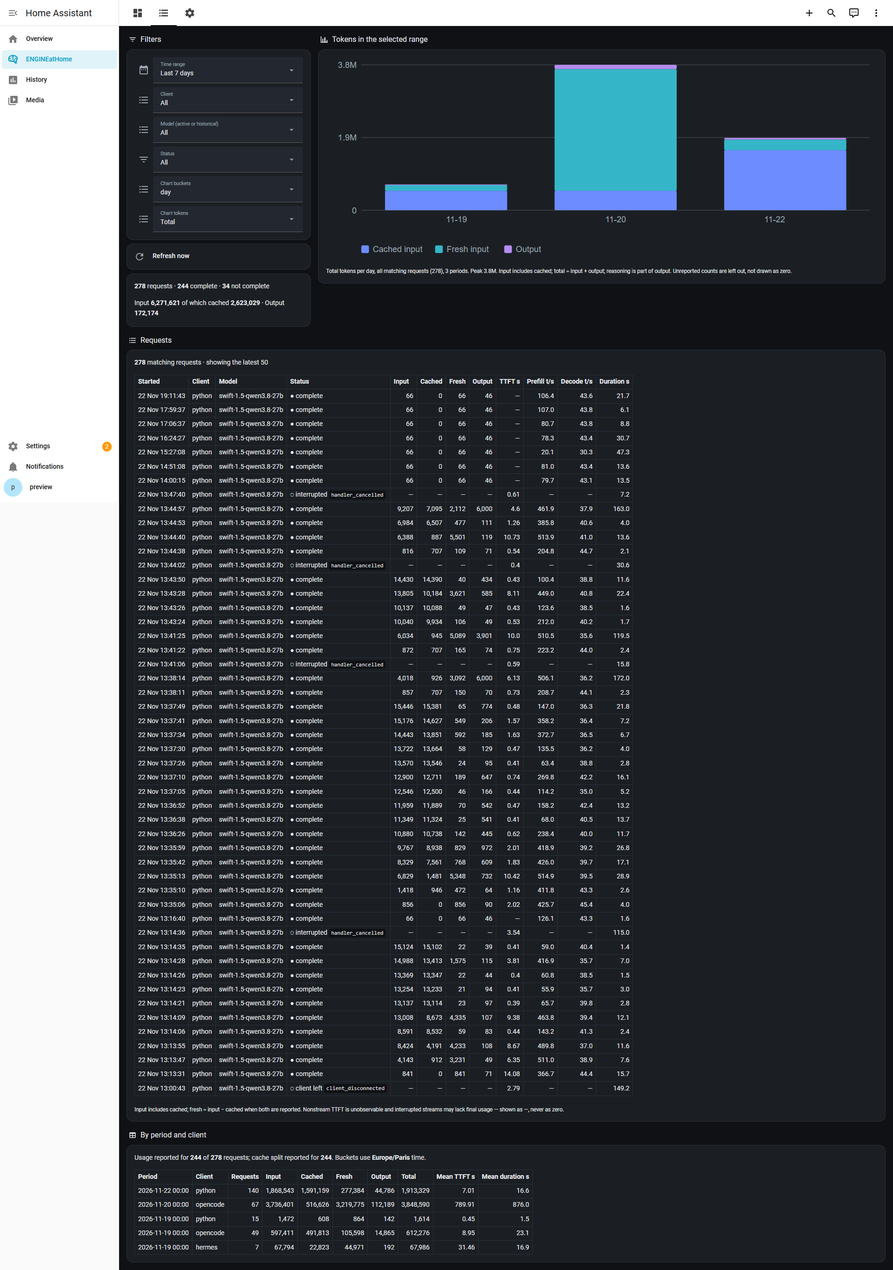
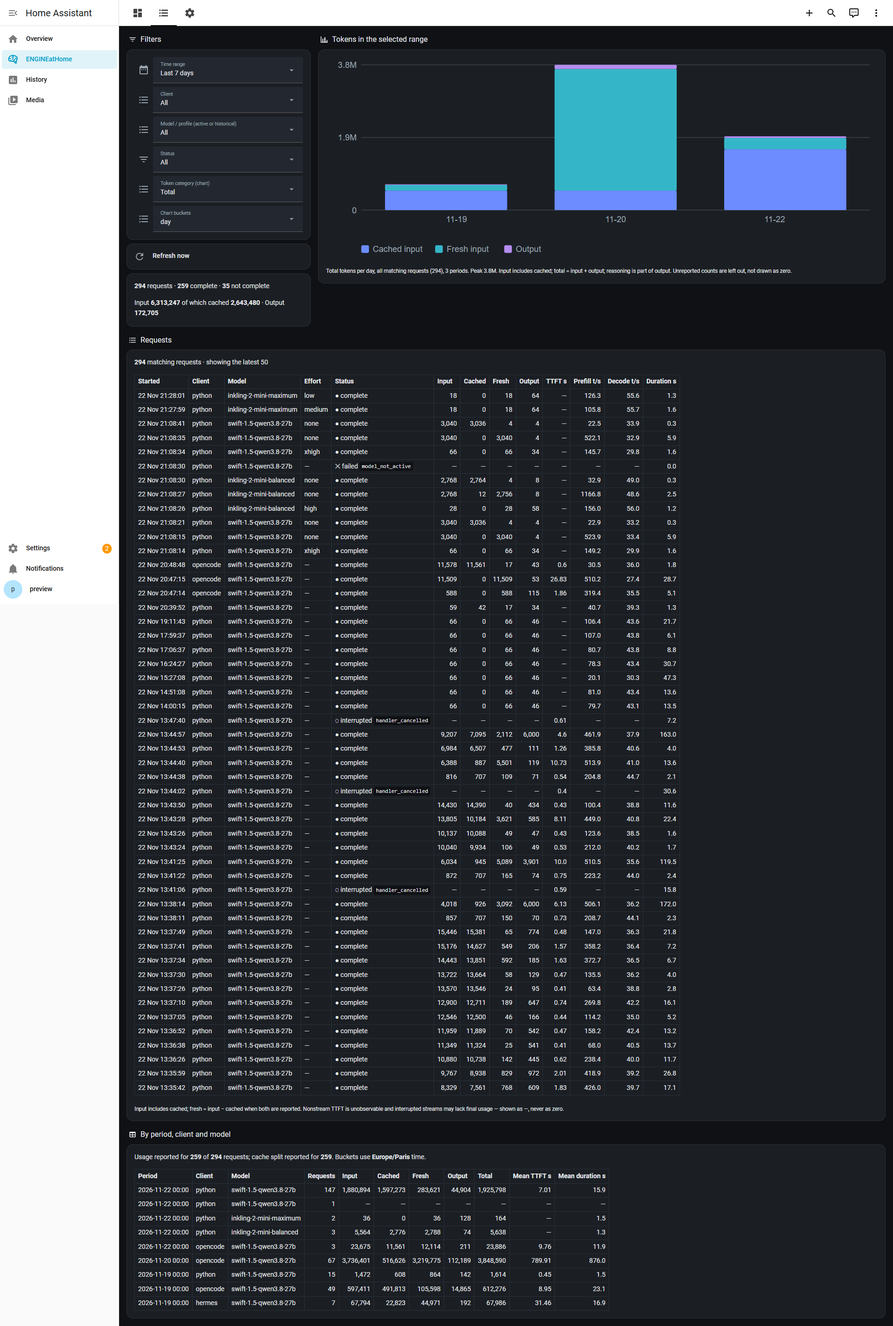
Document the multi-model control center and dashboard
Validated profile configurations and provenance, the switching protocol, API and
error codes, verified thinking-effort capabilities and forwarding, OpenCode request
format, test and live validation results, rollback, limitations; real screenshots.

diff --git a/docs/serving-dashboard.md b/docs/serving-dashboard.md
@@ -1,62 +1,65 @@
 # ENGINEatHome Serving dashboard
 
-Redesigned 2026-11-22. A Home Assistant dashboard for the homelab inference gateway: dark charcoal surfaces, a responsive 12-column Sections layout, three views. It only changes Home Assistant configuration (package, dashboard, theme). The gateway, lifecycle logic, inference arguments, credentials and API are untouched.
+A Home Assistant console for the homelab inference gateway: dark charcoal surfaces, a responsive 12-column Sections layout, three views. It chooses models and thinking effort, shows live GPU and inference statistics, and never holds a credential. The backend behaviour it controls is described in [multi-model-control-center.md](multi-model-control-center.md).
 
-Dashboard URL: `http://homelab.tail5bda2d.ts.net:8123/engine-at-home/overview` (`/requests`, `/settings`). The old `/serving` path is replaced by `/overview`.
+Dashboard URL: `http://homelab.tail5bda2d.ts.net:8123/engine-at-home/overview` (`/requests`, `/settings`).
 
-![Overview, desktop](assets/serving-dashboard/overview-desktop.png)
+![Overview, Swift running](assets/serving-dashboard/overview-desktop.png)
 
 ## Views
 
-**Overview**: a status header (gateway health, active model, active requests, GPU status), a **Model control** panel, key metrics, and separate charts:
+**Overview**
 
-- Token usage, last 24 h: cached input, fresh input, output (stacked; one tokens axis).
-- Throughput: prefill and decode tok/s per completed request, on their own axes.
-- GPU temperature (°C), power (W), VRAM used (GiB) and utilization (%), each in its own native history chart. Units are never mixed.
-- The five most recent requests with a link to the explorer.
+- Status header: gateway health, the model **actually running**, active requests, GPU status (green / amber / red).
+- **Model control.** *Running model* (blue) and *Runtime* state are separate from the *Target model* dropdown. Choosing a target only records it. The panel then compares the target with what is running (context, microbatch, KV precision, prefix cache, expected VRAM, default thinking) and says whether applying stops the running model and clears its prefix cache. **Apply model** appears only when the target differs, nothing is running or leased, and asks for confirmation. Load (when unloaded or failed), Restart and Unload (when ready) are compact and confirmed. Switching, failed loads and a failed last switch have their own states, and a banner explains why a switch or unload is refused.
+- **Thinking effort.** A separate selector offering only the loaded model's levels, the effective default and its source, whether per-request override is supported, and a note that higher effort can raise latency and tokens. Changing it never reloads the model.
+- **Connect.** API base URL, the served model ID, its context and the thinking default (code blocks with a copy button; no key).
+- KPI tiles (VRAM used/free, GPU utilization/power/temperature, active requests, last prefill/decode/TTFT/latency, cache efficiency, tokens today and in the selected range), then separate charts: token usage (cached, fresh, output), prefill and decode throughput (own axes), and GPU temperature, power, VRAM and utilization as individual history graphs. The five latest requests, each attributed to the model that served it, link to the explorer.
 
-Model control shows the **actual** runtime state and the model actually in memory. Load is offered only when the model is unloaded or failed; Restart and Unload only when ready, each behind a confirmation that states the cost (the prefix cache is discarded, so the next request re-reads its whole prompt). A banner appears while the gateway refuses Unload/Restart because requests or session leases are active. Nothing here interrupts a request or bypasses a lease; the gateway still enforces that (HTTP 409).
+**Requests.** Filters for time range, client, model/profile (active or historical, discovered from usage), status, token category and chart buckets; a stacked token chart; the latest 50 matching requests (model, forwarded thinking effort, status/error, input, cached, fresh, output, TTFT, prefill, decode, duration); a per-period/client/model table. Metadata only.
 
-**Requests**: filters for time range, client, model (active or historical), status, and chart bucket/series; a stacked token chart for the selection; a table of the latest 50 matching requests (input, cached, fresh, output, TTFT, prefill, decode, duration, status/error); and a per-period/client table. Metadata only.
+**Settings.** Default launch profile, automatic unload and idle timeout, all models with IDs, context, KV, microbatch and VRAM, a verbatim OpenCode snippet for the served model, each model's thinking controls, the selected model's launch settings (from the gateway; no paths), diagnostics (uptimes, leases, last load, GPU sample age, last switch, last error) and the lifecycle protections.
 
-**Settings**: automatic unload switch and idle timeout (15 min – 24 h, applied through the existing `PATCH /admin/settings`), API URL and model ID, the real launch settings, diagnostics (uptimes, leases, last load time, GPU sample age, last error) and the lifecycle protections, including the prefix-cache warning.
+| Switch pending | Inkling Maximum running |
+|---|---|
+| ![](assets/serving-dashboard/overview-pending.png) | ![](assets/serving-dashboard/overview-inkling.png) |
 
-| Overview, phone | Requests | Settings |
+| Phone | Requests | Settings |
 |---|---|---|
 | ![](assets/serving-dashboard/overview-phone.png) | ![](assets/serving-dashboard/requests-desktop.png) | ![](assets/serving-dashboard/settings-desktop.png) |
 
-Screenshots are real renders of this configuration in an isolated Home Assistant instance (2026.10.2) reading the live gateway's metadata.
+Screenshots are real renders of this configuration (Home Assistant 2026.10.2, headless Edge) reading the live gateway; the switch screenshots come from clicking through the real UI.
 
 ## Design decisions and limits
 
-- **Native only.** The deployment has no HACS, no custom cards and no Lovelace resources, so ApexCharts and Mushroom are not used. The dashboard uses Sections, Tile, Heading, Gauge, Conditional, Entities, History-graph and Markdown cards plus a theme (`themes/engineathome.yaml`, applied per view). Token and throughput charts are inline SVG rendered by HA templates from real request rows. They are not interactive: no tooltips or zoom.
-- **Theme scope.** The theme styles the dashboard content. HA's own top bar and sidebar follow your HA theme; select *ENGINEatHome* in your profile for a fully dark shell.
-- **No profile selector.** The gateway serves exactly one model (`swift-1.5-qwen3.8-27b`, one `argv`, one port). A Swift / Inkling profile dropdown would be non-functional, so it is not shown. **Backend dependency:** model profiles need gateway support for several named launch profiles, an explicit select-then-apply control endpoint (selecting must never load), per-profile preflight (VRAM, power limit, checksum), and a recorded active-profile field in `/admin/status`. The dashboard needs only a profile list and an active-profile sensor once that exists. Until then the interface states that Unload, Restart (and any future model change) discards the prefix cache.
-- **Status filter** is applied in the dashboard over the newest 500 rows returned by the existing analytics API; no gateway change.
-- **Unavailable is not zero.** Missing measurements (no decode rate, no cache split, nonstream TTFT) show `—`/Unavailable. Chart series ignore unreported counts, and "input, split unreported" is its own series.
-- **Request table width.** Wide tables clip on phones; the Overview table is a compact eight-column version.
-- Overview charts use fixed 24-hour windows; Requests charts follow the filters. GPU history graphs use HA's recorder (default retention), so they are empty right after a fresh install.
+- **Native only.** No HACS, custom card or Lovelace resource is installed, so ApexCharts and Mushroom are not used. The dashboard uses Sections, Tile, Heading, Conditional, Entities, History-graph and Markdown cards and one theme (`themes/engineathome.yaml`, per view). Token and throughput charts are inline SVG rendered by Home Assistant templates from real request rows: not interactive (no tooltips or zoom).
+- **Everything about profiles comes from the gateway's registry.** Dropdown choices, model IDs, levels and launch settings are generated from the configured profiles and read live from `/admin/status`; nothing is hard-coded.
+- **Selection is a request, not an action.** No automation can apply a profile; only the confirmed Apply tile can. A gateway refusal (409) leaves the selection and the running model untouched, and the sync automations show the gateway's truth.
+- **Unavailable is not zero.** Missing measurements show `—` or Unavailable. Chart series ignore unreported counts; "input, split unreported" is its own series.
+- **Theme scope.** The theme styles the dashboard content. Home Assistant's own top bar and sidebar follow your theme; select *ENGINEatHome* in your profile for a fully dark shell.
+- **Tables** clip on phones; the Overview table is the compact one.
+- Overview charts use a fixed 24-hour window; Requests charts follow the filters. GPU graphs use the recorder, so they are empty right after a fresh install.
+- Thinking changes are requests to the gateway: after a failure the selector reverts to the gateway's value within two minutes.
 
 ## Files
 
 | File | Role |
 |---|---|
-| `serving/ha_dashboard.py` | dashboard and theme generator, chart/table templates |
-| `serving/ha_files.py` | package generator (REST sensors, derived template sensors, helpers, commands), runtime facts from real `argv` |
-| `serving/install_home_assistant.py` | backs up, installs package/dashboard/theme, validates with HA `check_config`, rolls back on failure |
-| `serving/configure.py` | passes the real launch arguments to the generator |
-| `serving/test_ha_dashboard.py` | offline checks: YAML, every entity defined, native cards only, secrets, templates and SVG with null/empty data |
-| `serving/validate_ha_history.py` | isolated HA instance against the real metadata API: filters, every status and token view, invalid ranges |
+| `serving/ha_dashboard.py` | dashboard, theme, chart and table templates |
+| `serving/ha_files.py` | package generator: REST/derived sensors, helpers, commands, automations; profile data from `profiles.py` |
+| `serving/install_home_assistant.py` | backup, install package/dashboard/theme, `check_config`, rollback on failure |
+| `serving/test_ha_dashboard.py` | offline checks: YAML, every entity defined, native cards only, secrets, profile-derived content, templates and SVG with null/empty/unavailable data |
+| `serving/validate_ha_history.py` | isolated HA instance against the real API with control services stubbed |
 
 Regenerate and install (on the homelab; no key is printed):
 
 ```bash
 cd ~/llm/serving
-~/llm/serving-venv/bin/python -c "import json,pathlib;from ha_files import generate;c=json.loads(pathlib.Path('config.json').read_text());k=json.loads(pathlib.Path('credentials.json').read_text());generate(pathlib.Path('ha-generated'),c['api_base_url'].rsplit('/v1',1)[0],c['model_id'],k['home-assistant'],c['argv'])"
-sudo ~/llm/serving-venv/bin/python install_home_assistant.py   # backup, check_config, rollback on failure
-sudo docker restart homeassistant                             # package changes need a restart
+~/llm/serving-venv/bin/python -c "import json,pathlib;from ha_files import generate;c=json.loads(pathlib.Path('config.json').read_text());k=json.loads(pathlib.Path('credentials.json').read_text());generate(pathlib.Path('ha-generated'),c['api_base_url'].rsplit('/v1',1)[0],k['home-assistant'],c)"
+sudo python3 install_home_assistant.py      # backup, check_config, rollback on failure
+sudo docker restart homeassistant           # package changes need a restart
 ```
 
-Rollback: copy the files from `engineathome/backup-<stamp>/` back over `engineathome/` (and remove `themes/engineathome.yaml`), then restart HA.
+Rollback: copy the files from `engineathome/backup-<stamp>/` back over `engineathome/`, remove `themes/engineathome.yaml`, restart Home Assistant.
 
-Offline tests: `python serving/test_ha_dashboard.py` (needs `pyyaml` and `jinja2`). Against real HA: copy a generated candidate into the HA container and run `validate_ha_history.py <dir>`; it uses a temporary HA state and only reads metadata.
+Offline tests: `python -m unittest test_serving test_ha_dashboard` in `serving/` (needs `aiohttp`, `pyyaml`, `jinja2`). Against real Home Assistant: copy a generated candidate into the container and run `validate_ha_history.py <dir>`.

diff --git a/docs/multi-model-control-center.md b/docs/multi-model-control-center.md
@@ -1,0 +1,102 @@
+# Multi-model inference control center
+
+Deployed 2026-11-22. One RTX 2080 Ti (22 GB, 175 W) serves **one model at a time** through the existing private gateway; Swift stays the default, and Inkling 2 Mini is available in two validated configurations. Models are selected, applied and tuned from the Home Assistant dashboard ([serving-dashboard.md](serving-dashboard.md)). No CUDA kernel, benchmark configuration or Swift inference setting changed.
+
+## Profiles (verified against the homelab, not assumed)
+
+| | Swift Production | Inkling Balanced | Inkling Maximum |
+|---|---|---|---|
+| Model ID | `swift-1.5-qwen3.8-27b` | `inkling-2-mini-balanced` | `inkling-2-mini-maximum` |
+| Model | Qwen3.8-27B Swift 1.5 GSQ-RCO IQ3_S (MTP) | Inkling 2 Mini UD-IQ3_XXS (mainline GGUF) | same file |
+| Runtime | stock llama.cpp build 12519 (unchanged) | llama.cpp fork `relpos-gpu`, validated build `bin-rp2` | same binary |
+| Context (configured) | 262,144 | 204,800 | 262,144 |
+| KV cache | Q4_0 | Q8_0 | Q8_0 |
+| Microbatch | 128 (batch 512) | 512 | 256 |
+| Other | MTP3, FA, 99 GPU layers, `--cache-ram 0` | FA, `-ngl 99`, one sequence, `--jinja`, prefix cache on | same |
+| Loaded VRAM | ~19.0 GiB expected (observed 19,614 MiB) | ~20.1 GiB (observed 20,558 MiB) | ~19.4 GiB (observed 19,840 MiB) |
+| Thinking | `none, low, medium, xhigh`; default `xhigh` | `none, minimal, low, medium, high, xhigh`; default `high` | same as Balanced |
+
+- Inkling launch lines are the qualified commands from the long-context report (`-ngl 99 -fa on -ctk q8_0 -ctv q8_0 -c <ctx> -ub <ub> -np 1 --jinja --no-warmup`) plus only what the gateway needs: loopback host/port, alias, `--no-webui`, `--log-disable`. Context 204,800 uses ubatch 512 (qualified at 127,671 and 185,099 actual input tokens). Context 262,144 uses ubatch 256 (qualified with **242,134** actual input tokens, 246.7K occupied).
+- **262,144 is configured capacity, not a demonstrated maximum input.** Nothing above 246.7K occupancy was tested. ubatch 512 at 262,144 fails to allocate (7.40 GiB compute buffer) and is deliberately not offered; it is used only as the failure-injection profile in staging tests.
+- Runtime provenance: `serving/add_profiles.py` pins the research build into `~/llm/runtimes/inkling-7d3e5b1-bin-rp2/` (9 files, SHA256 recorded in its `MANIFEST.json`) and hard-links the GGUF next to the Swift model (SHA256 `fd9ccedae17c…1657`, verified). The binary reports commit `e4a7ea6` in `--version`: it was built (16:43) before 7d3e5b1 was committed (16:47) from the same tree, and the research reports name `bin-rp2` as the 7d3e5b1 baseline. Identity is therefore pinned by hash, not by the embedded string, and validated behaviourally (loads, answers, matches the documented VRAM). It was not rebuilt.
+- GPU guards are per profile: free VRAM >= measured peak + 512 MiB, per-process residency floor (weights + KV), 175 W power limit, no other CUDA process, model file unchanged, backend port free.
+
+## Switching
+
+Vocabulary: **selected** (a UI choice, persisted, never touches the runtime), **applied** (what the gateway serves and what an on-demand load starts), **active** (the process on the GPU, none while unloaded), **default** (applied after a clean gateway start; Swift).
+
+Apply sequence (`POST /admin/profile/apply`, all under the existing lifecycle lock, run detached from the HTTP request so a disconnect cannot leave a half-finished switch):
+1. Refuse (HTTP 409, nothing touched) if requests are active, a session lease is held, a load is running or the native slot is busy.
+2. Static preflight of the target (model file, executable) before anything is unloaded.
+3. Stop the owned process, wait until the GPU really has the room the target needs.
+4. Load with the per-profile guards, then send a **real tiny inference request** to the new runtime. Success is reported only after that answer.
+5. On any failure: clean up, then restore the previous profile, then the configured default (Swift); the outcome (`last_switch`: ok, error, restored) is exposed and shown in the dashboard.
+
+Measured on the homelab (warm page cache; cold-disk loads were not measured): Swift 3.4-3.9 s, Balanced 4.2-4.3 s, Maximum 4.3 s, apply from the dashboard 4.8 s end to end (phases `unloading, loading, verifying_inference` observed in `/admin/status`). One `llama-server` process and 19,614-20,558 MiB VRAM after every switch.
+
+**The prefix cache does not survive a switch** (or Unload/Restart): after Swift -> Balanced -> Swift the first request reported `cached_tokens 0` and the repeat 3,036 of 3,040. The UI says so before Apply.
+
+### API (control scope; inference keys cannot use these)
+
+| Route | Purpose |
+|---|---|
+| `GET /admin/profiles` | all profiles: model ID, context, KV, microbatch, VRAM, thinking levels, launch settings (no paths/checksums) |
+| `GET /admin/profile` | selected / active / applied / default, state, switch phase, last switch |
+| `POST /admin/profile/select {profile}` | record the target; **never switches** |
+| `POST /admin/profile/apply [{profile}]` | apply the selected (or named) profile as above |
+| `POST /admin/load`, `/unload`, `/restart` | unchanged; Load starts the applied profile |
+| `PATCH /admin/settings` | existing keys plus `default_profile` and `reasoning_effort` (+ optional `profile`) |
+| `GET /admin/status` | existing `model.*` keys kept; adds `profile`, `profiles`, `reasoning`, `model.active_model_id` |
+
+Gateway status distinguishes gateway health, selected/active/applied profile, runtime state (`unloaded, loading, ready, switching, unloading, failed`), requests, leases, errors, capacity and the model configuration.
+
+### Which model answers a request
+
+A request names exactly one model. Unknown ID: 400 `unknown_model`. A known ID that is **not** the served model: 409 `model_not_active` with the served model and how to apply the other one; it is never answered by another model and never triggers a switch. No `model`: the applied profile. `/v1/models` lists the served model (`loaded`, `context`, `profile`). Existing clients, keys, leases, auto-unload, on-demand load (of the *applied* profile, so an idle-unloaded Inkling reloads as Inkling) and Tailscale binding are unchanged.
+
+### Usage attribution
+
+The ledger gained `profile` and `effort` columns (nullable, additive). Historical rows were attributed to `swift` on first start (282 of 282). Every served request is tagged with the model/profile that served it and the effort forwarded; rejected requests keep the model they asked for and no profile. Still metadata only.
+
+## Thinking effort
+
+Read from the models' own chat templates (GGUF metadata) on the homelab:
+
+- **Inkling** (`inkling2_loop`): template variable `reasoning_effort`, a name (`none 0, minimal 0.1, low 0.2, medium 0.7, high 0.9, xhigh 0.99, max 0.99`) or a number 0-0.99; default 0.9 (= high). It renders `Thinking effort level: <n>` as a system message. `max` and `xhigh` are identical, so only `xhigh` is offered (`max` is accepted as an alias).
+- **Swift** (`qwen35`): `enable_thinking` (bool) and `reasoning_effort` in `xhigh` (default), `medium`, `low`. `none` is offered as `enable_thinking=false`. Swift's `medium` renders **no instruction text** (a template quirk: it equals the neutral prompt); `low` and `xhigh` add distinct instructions.
+
+Forwarding: the gateway resolves the effort per request (template kwargs, then the top-level OpenAI `reasoning_effort`, then the dashboard default for the served profile, then the model default; same precedence as before), validates it against that model's list (400 `unsupported_reasoning_effort` with the supported list; nothing reaches the model), and sets `chat_template_kwargs.reasoning_effort` (or `enable_thinking=false`). The resolved value is returned as `X-Reasoning-Effort` and recorded. A request's value never changes the stored default or another client's requests. Changing the default (dashboard or `PATCH /admin/settings`) needs no reload. Reasoning content and tool calls pass through untouched; Swift's sampling and `enable_thinking`/`preserve_thinking` defaults are unchanged (Inkling gets none).
+
+Verified on the real runtimes (staging gateway, then production):
+- **Rendered template** (`/apply-template` with the forwarded kwargs): every Inkling level renders its exact number (0, 0.1, 0.2, 0.7, 0.9, 0.99; `max` -> 0.99; `0.5` -> 0.5; default 0.9); Swift renders `low` / `xhigh` instructions, nothing for `medium`, and an empty think block for `none`.
+- **Through the gateway**: changing the level changes the early prompt line, so the prefix cache misses (high -> low: `cached 0`; repeat: 2,764 of 2,768). Swift `low` and `xhigh` differ in prompt tokens (54 vs 66).
+- **Real requests** succeed at every advertised level on both models.
+- **Not claimed**: that a level changes how long the model actually thinks. A moderately hard question gave non-monotonic token counts (single samples, default sampling). Requested effort is not a measurement of internal effort. For Inkling `none` is effort 0, not "thinking disabled": a short reasoning may still be produced.
+
+OpenCode 1.18.16 request format, captured from the real client: with a plain model entry it sends no `reasoning_effort` on agent requests (so the dashboard default applies) but sends `low` on its own title-generation requests (supported by both profiles); `options.reasoningEffort` pins a level on every request; `options.chat_template_kwargs` is passed through. The dashboard's snippet follows this.
+
+## Validation summary
+
+| Layer | Result |
+|---|---|
+| Offline tests (`serving/test_serving.py`, `test_ha_dashboard.py`) | 44 pass: registry validation; selection never switches; apply; invalid profiles; active-request and lease protection; concurrent lifecycle operations; model-ID routing; auto-unload and on-demand reload of the applied profile; failure recovery (previous, then Swift, then nothing); usage attribution and legacy migration; reasoning defaults, overrides, isolation and rejection; status consistency; dashboard entities, cards and charts |
+| Live, staging gateway (own port/DB, real GPU) | Swift -> Balanced -> Maximum -> Swift; every reasoning level on both models; apply/unload/restart refused during a running request (request completed untouched); apply refused with a lease; **real OOM failure** (ubatch 512 at 262,144, runtime exits 1): cleaned up, Swift restored, Swift answered, one process, VRAM back |
+| Live, production gateway | Swift -> Balanced -> Swift smoke; the same through the Home Assistant UI (select, confirm dialog, switch, thinking default, per-request override, switch back) |
+| Home Assistant 2026.10.2 | `check_config`; `validate_ha_history.py` in an isolated instance against the real API with control services stubbed (selection, reasoning options follow the loaded model, one apply path, all cards and filters) |
+
+Tools: `serving/validate_profiles_live.py` (`--full --oom-profile`), `serving/validate_reasoning_live.py`, `serving/validate_ha_history.py`. They run on the homelab with short requests only; no long-context benchmark was run.
+
+## Operation and rollback
+
+Add or refresh profiles: `~/llm/serving-venv/bin/python add_profiles.py` (idempotent, backs up `config.json`, verifies hashes). Regenerate the Home Assistant package: see [serving-dashboard.md](serving-dashboard.md). Gateway change: `sudo systemctl restart engineathome-api.service` (drains).
+
+Rollback: restore `gateway.py`, `lifecycle.py`, `store.py` and `config.json` from `~/llm/serving/backups/multi-model-<stamp>/` (the previous HA files are in `ha-installed/` of the earlier `dashboard-redesign-*` backup and in Home Assistant's `engineathome/backup-*`), restart the gateway and Home Assistant. The ledger change is additive; older code ignores the new columns.
+
+## Limitations
+
+- Switch times are warm-cache; a cold disk read of a 11-12 GB model will take longer.
+- 262,144-token Maximum is qualified only to 242K actual input; a cold 242K prefill takes ~9 minutes.
+- Only one lifecycle operation and one model at a time; the first request after any switch re-reads its whole prompt.
+- Effort levels are forwarded as requested; their effect on behaviour was not shown to be monotonic.
+- OpenCode's variant selector can send levels a model lacks (e.g. `high` to Swift); the gateway answers 400 with the supported list instead of guessing.
+- The gateway is a single process: `/admin/status` shows live state, but a crash of the gateway itself unloads nothing automatically beyond systemd's restart (the native child is owned and stopped with it).

diff --git a/docs/production-serving.md b/docs/production-serving.md
@@ -14,6 +14,8 @@ Deployed 2026-11-19. This replaces the retired benchmark scheduler with an on-de
 | Isolated Python | `/home/marvin/llm/serving-venv` — Python 3.14, aiohttp 3.14.5 |
 | Usage database | `/var/lib/engineathome/usage.sqlite3` |
 
+**Multi-model update (2026-11-22).** The same gateway and URL now serve three selectable profiles, one at a time: Swift Production (default, unchanged configuration), Inkling Balanced (`inkling-2-mini-balanced`, 204,800 context) and Inkling Maximum (`inkling-2-mini-maximum`, 262,144 configured context). Choosing a profile never switches the model; **Apply** does, only when no request or lease is active, and verifies a real inference before reporting success. A request must name the model that is being served (otherwise 409 `model_not_active`). Thinking effort is selectable per model without a reload. Everything below that says "model ID `swift-1.5-qwen3.8-27b`" describes the Swift profile. Details, validated launch settings and rollback: [multi-model-control-center.md](multi-model-control-center.md); dashboard: [serving-dashboard.md](serving-dashboard.md).
+
 Tailscale must be connected. Prefer the numeric IP on clients without MagicDNS; a hostname lookup failure is distinct from an authentication error. Port 8080 binds only Tailscale IPv4 and localhost; the native server binds only `127.0.0.1:18081`. Port 8081 belongs to the existing OpenThread Border Router and must remain untouched. The backend was moved after a reboot exposed this collision; the public API address and inference settings are unchanged. No router forwarding or public listener was added. HTTP is carried inside Tailscale's encrypted tunnel; this is not a public HTTPS service. Existing HA network exposure was not broadened.
 
 ## Runtime preserved
